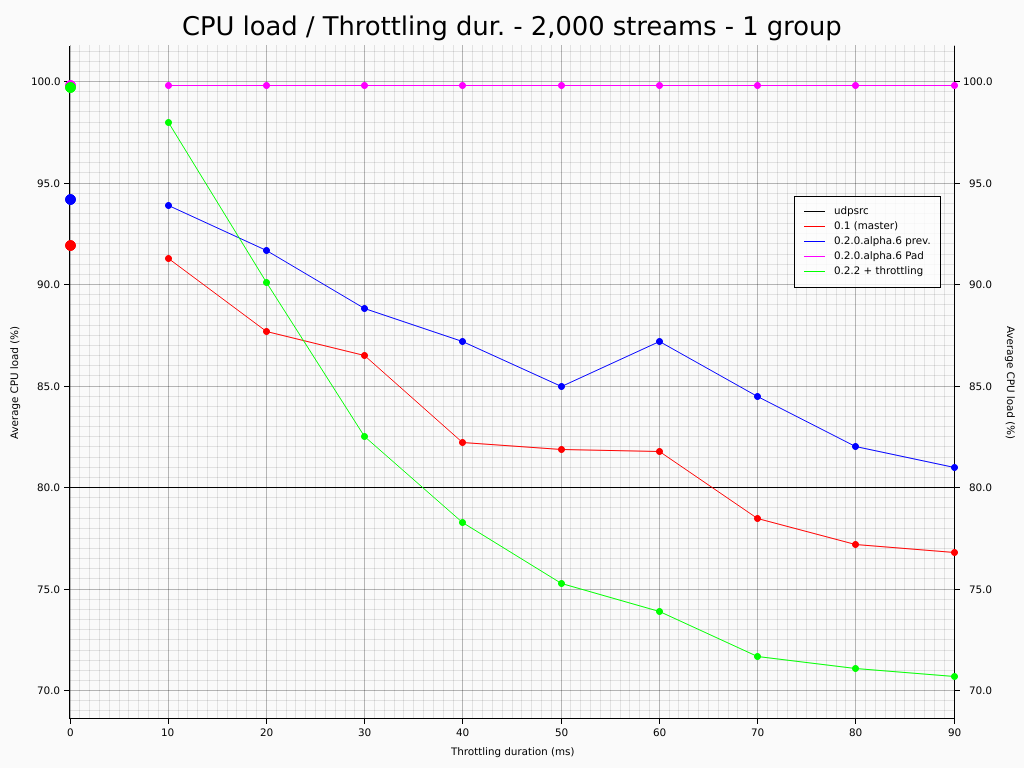
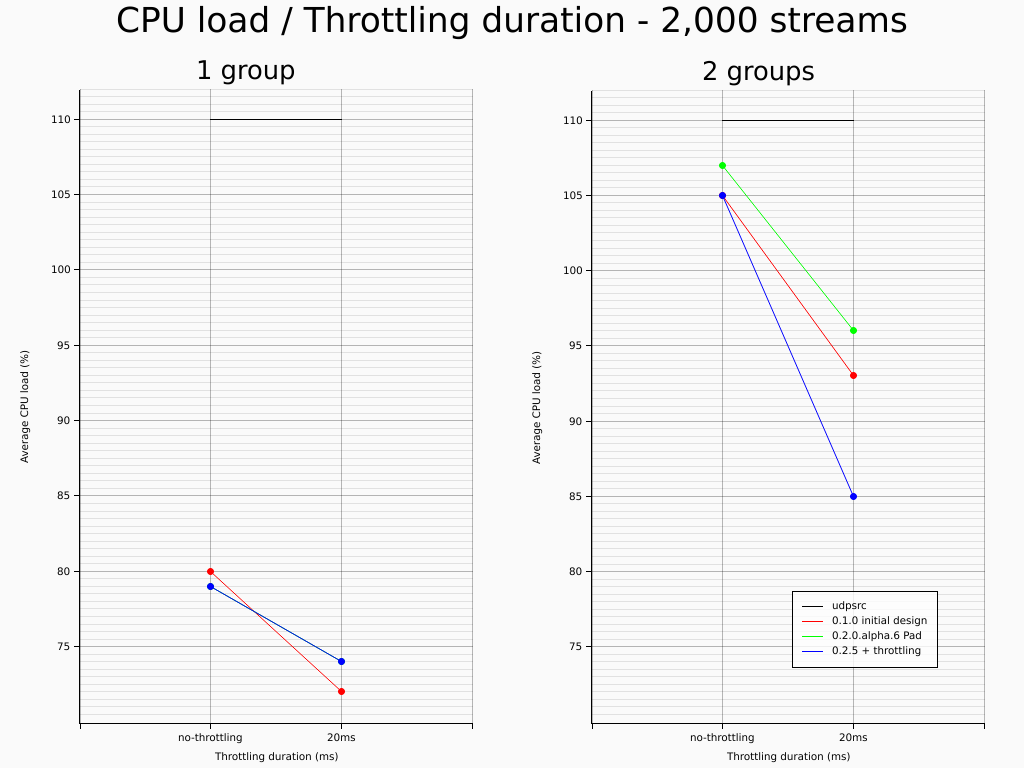
Update results for gst-plugin-threadshare

Changed region(s): [[0.0312, 0.0, 1.0, 1.0], [0.0, 0.4375, 0.0312, 0.5938]]

diff --git a/evaluating_throttling_implementations/README.md b/evaluating_throttling_implementations/README.md
@@ -30,7 +30,7 @@ need a special treatment so that they are fired close enough to their target
 instant. In order to avoid timers from being triggered too late,
 `gst-plugin-threadshare` implements its own timers management.
 
-See [this blog post](https://coaxion.net/blog/2018/04/improving-gstreamer-performance-on-a-high-number-of-network-streams-by-sharing-threads-between-elements-with-rusts-tokio-crate/)
+See [this blog post](https://coaxion.net/blog/2018/04/improving-gstreamer-performance-on-a-high-number-of-network-streams-by-sharing-threads-between-elements-with-rusts-tokio-crate)
 for a more in-depth explanation of this strategy.
 
 Two solutions are considered for `gst-plugin-threadshare` to keep up with
@@ -58,17 +58,17 @@ The goal of this evaluation is twofold:
   1. Support throttling as an approach to reduce CPU load for `tokio`'s executor.
   2. Assess the impact of recent changes in `gst-plugin-threadshare`.
 
-## Conditions
+## Testing `tokio` throttling
 
-The evaluation was conducted on the most powerful setup I could find, which is
-not that powerful unfortunately:
+The evaluation was conducted on a machine with the following characteristics:
 
   - CPU: Intel Core i5 - 7200U @ 2.5GHz, 2 physical cores, SMT disabled.
   - OS: Fedora 31 up to date as of 2019/12/17.
   - Kernel: Linux `5.3.16-300.fc31.x86_64`.
   - Scaling governor: `performance`.
   - Max. file descriptors: 30,000 (`ulimit -Sn 30000`).
-  - RAM: 12GB DDR4 @ 2,400 MHz.
+  - rustc stable 1.39.0.
+  - RAM: 12GB DDR4 @ 2,133 MHz.
 
 Since the CPU provides 2 physical cores only, all tests were performed using
 1 thread.
@@ -78,37 +78,31 @@ measurements on a 20s period. Measurements are taken at least one minute after
 the benchmark actually starts processing data. All measurements were performed
 after at least one hour after the machine was turned on with CPU loaded.
 
-In some cases, even the 20s average was not enough to flatten variations,
-in which cases a best effort average was performed. It would be interesting to
-invest time in a better evaluation and provide results which would account for
-the dispersion, but for the time being this method seemed good enough.
-
-It would be interesting to conduct the tests on a more powerful setup so as to
-get a better idea of the actual throttling duration that could be used on the
-target machines.
-
-## Testing `tokio` throttling
-
 [`tokio-udp-receiver-benchmark`] was created to demonstrate the benefit of the
 throttling strategy on `tokio` without the `GStreamer` overhead. This project
 uses a set of UDP sender & receiver with control on the streams number and
 throttling duration.
 
-The tests were conducted on [`tokio` `0.2.4 + throttling`] branch with a
+The tests were conducted on [`tokio` `0.2.5 + throttling`] branch with a
 [modified version of `tokio-udp-receiver-benchmark`]. The modified version
 prints the throughput reached by a single port. Only one port was used in order
 to avoid the need for synchronization primitives on a shared counter. The counter
 is incremented upon receipt of a new packet during 20s after which the throughput
 is printed on screen.
 
+All executables are built before-hand in `release` version.
+
 ### Results
 
 The following plot shows the CPU load induced by the non-throttling and
-throttling `BasicScheduler` of [`tokio` `0.2.4 + throttling`].
+throttling `BasicScheduler` of [`tokio` `0.2.5 + throttling`].
 
 ![`tokio` only CPU load](plots/tokio/tokio_only_cpu_load_throuput_cpu_load.png?raw=true "`tokio` only CPU load")
 
 With this tests, the benefit on CPU load of throttling appears immediately.
+
+Note that increasing the throttling duration reduces CPU load, but also adds
+latency.
 
 ![`tokio` only throughput](plots/tokio/tokio_only_throuput_throughput.png?raw=true "`tokio` only throughput")
 
@@ -127,15 +121,21 @@ either `tokio` version upgrades or framework reworks. In this evaluation, we
 will compare the following versions which should allow assessing the impact of
 the different phases:
 
-| Name                | tokio         | Futures        | Design      | Repo. |
-| ------------------- | ------------- | -------------- | ----------- | ----- |
-| 0.1 (master)        | 0.1.22        | 0.1            | Initial     | [link](https://gitlab.freedesktop.org/gstreamer/gst-plugins-rs/tree/f638b0eef7155e9bf40fb315284920b3d5eb034e) | 
-| 0.2.0.alpha.6 prev. | 0.2.0.alpha.6 | 0.3.0-alpha.19 | Initial     | [link](https://gitlab.freedesktop.org/gstreamer/gst-plugins-rs/tree/908fa74132dc7935e40a55473ab24298a066c259) |
-| 0.2.0.alpha.6 Pad   | 0.2.0.alpha.6 | 0.3.0-alpha.19 | Pad wrapper | [link](https://gitlab.freedesktop.org/gstreamer/gst-plugins-rs/tree/80a01f4754a0ec7d1b4756d7755fcdeff6d50928) |
-| 0.2.2 + throttling  | 0.2.2 + thrtl | 0.3.1          | Pad wrapper | [link](https://gitlab.freedesktop.org/fengalin/gst-plugins-rs/tree/acce02073550ec4e7f065e48e13511ee1cc6db26) |
+| Name                | tokio         | Futures        | Repo. |
+| ------------------- | ------------- | -------------- | ----- |
+| 0.1.x intial design | 0.1.22        | 0.1            | [link](https://gitlab.freedesktop.org/gstreamer/gst-plugins-rs/tree/f638b0eef7155e9bf40fb315284920b3d5eb034e) | 
+| 0.2.0.alpha.6 Pad   | 0.2.0.alpha.6 | 0.3.0-alpha.19 | [link](https://gitlab.freedesktop.org/gstreamer/gst-plugins-rs/tree/80a01f4754a0ec7d1b4756d7755fcdeff6d50928) |
+| 0.2.5 + throttling  | 0.2.5 + thrtl | 0.3.1          | [link](https://gitlab.freedesktop.org/fengalin/gst-plugins-rs/tree/0221524a1091cfea688f95805e37ad71b7f4778d) |
 
 The Pad wrapper design introduces an API similar to `GStreamer`'s [`GstPad`]
 type, except that it uses `Future`s whenever possible.
+
+The evaluation was conducted on a machine with the following characteristics:
+
+  - CPU: Intel(R) Core(TM) i7-4790K CPU @ 4.00GHz (+ all the microcode updates).
+  - Kernel: Linux 5.3.9 (Debian unstable).
+  - rustc stable 1.39.0.
+  - Memory: 4x8GB DDR3 @ 1,600MHz.
 
 ### Tools
 
@@ -166,89 +166,33 @@ udpsrc-benchmark-sender 2000
 
 All executables are built before-hand in `release` version.
 
-### Notable consequence of the upgrade to `tokio-0.2.x`
-
-Before `tokio-0.2.0`, the `UdpSocket` was built from a `Handle` to the I/O
-`Reactor` (see [this code](https://gitlab.freedesktop.org/gstreamer/gst-plugins-rs/blob/master/gst-plugin-threadshare/src/udpsrc.rs#L574)).
-Since `tokio-0.2.0`, the `Reactor` is no longer passed as an argument, however
-the `UdpSocket` must be created in the thread where the executor is running.
-In order to achieve this, a `Future` is spawned for the `UdpSocket` creation and
-we wait for the `Future` completion before continuing with the initialization.
-(see [this code](https://gitlab.freedesktop.org/fengalin/gst-plugins-rs/blob/acce02073550ec4e7f065e48e13511ee1cc6db26/gst-plugin-threadshare/src/udpsrc.rs#L639)).
-
-In the benchmark receiver, all the elements for all the streams are added to the
-same `GStreamer` `pipeline`. This is convenient because all the elements can
-be started from one instruction and only one bus is needed to monitor errors.
-Each `ts-udpsrc` element creates its own `UdpSocket` by spawning a `Future` on
-the throttling executor. As a consequence, starting the `0.2.2 + throttling`
-benchmark with 4,000 streams and a throttling duration of 50ms takes about 200s
-for `ts-udpsrc`.
-
 ### Results
 
-FIXME figure out why the sweet spot is not around 20ms.
-
 The following plots show the CPU load induced by the `gst-plugin-threadshare`
-versions at different throttling duration depending on the streams number.
-
-Note the dots at throttling duration 0. They represent the CPU load when no
-throttling is applied. For the `0.2.2 + throttling` version, the regular `tokio`
-`BasicScheduler` implementation is used, for the other versions the thread is
-not forced to sleep.
-
-The black line indicates the CPU load for the `udpsrc` element, so this line is
-the threshold under which throttling actually reduces CPU load compare to the
-element threaded implementation.
-
-![`gst-plugin-threadshare` 1,500 streams](plots/gst-plugin-threadshare/cpu_load_1500.png?raw=true "`gst-plugin-threadshare` 1,500 streams")
-
-At 1,500 streams, `0.1 (master)` reaches the threshold with a shorter throttling
-duration than `0.2.2 + throttling`. However, as throttling duration increases,
-CPU load tends to fluctuate (more than a 10% in relative value), even for a
-given throttling duration (not represented here). `0.2.2 + throttling` shows a
-more predictable behavior both as throttling duration increases and for a given
-operating point.
-
-The upgrade to `tokio-0.2.0.alpha.6` induces a slight increase in CPU load,
-but quite insignificant when compared to the 10% increase (in relative value)
-due to the `Pad` wrapper model as `0.2.0.alpha.6 Pad` seems to show.
-The throttling implemented on `tokio-0.2.2` compensates the overhead at the
-interesting operating points though.
+versions with and without throttling. The black line indicates the CPU load for
+the non-threadshare element.
 
 ![`gst-plugin-threadshare` 2,000 streams](plots/gst-plugin-threadshare/cpu_load_2000.png?raw=true "`gst-plugin-threadshare` 2,000 streams")
 
-At 2,000 streams, `0.2.2 + throttling` reaches the threshold faster than any
-other implementations.
-
-The upgrade to `tokio-0.2.0.alpha.6` shows a more significant increase in CPU
-load compared to the 1,500 streams test.
-
-`0.2.0.alpha.6 Pad` overhead seems to prevent this version from taking advantage
-of the throttling strategy.
-
-![`gst-plugin-threadshare` 2,500 streams](plots/gst-plugin-threadshare/cpu_load_2500.png?raw=true "`gst-plugin-threadshare` 2,500 streams")
-
-At 2,500 streams, only `0.2.2 + throttling` is able to benefit from the
-throttling strategy on this configuration.
+At 2,000 streams, all `gst-plugin-threadshare` versions behave approximately the
+same, regardless of the `tokio` version used or the framework design.
 
 ## Next steps
 
 The following next steps are identified:
 
-  - Propose [`tokio` `0.2.4 + throttling`] for inclusion in upstream `tokio`.
+  - Propose the throttling modifications for inclusion in upstream `tokio`.
   - Perform similar tests on `gst-plugin-threadshare` with additional
     `{ts-}Queue`s in the pipeline so that the evaluation doesn't rely mostly
     on I/O.
   - Check the benefit of using `lto` (link time optimization) when building
     tools.
-  - Analyze and reduce the overhead induced by the `Pad` wrapper model in
-    `gst-plugin-threadshare`.
 
 [`gst-plugin-threadshare`]: https://gitlab.freedesktop.org/gstreamer/gst-plugins-rs/tree/master/gst-plugin-threadshare
 [`gstreamer-rs`]: https://gitlab.freedesktop.org/gstreamer/gstreamer-rs
 [`GStreamer`]: https://gstreamer.freedesktop.org/
 [`tokio`]: https://github.com/tokio-rs/tokio
 [`GstPad`]: https://gstreamer.freedesktop.org/documentation/gstreamer/gstpad.html?gi-language=c
-[`tokio` `0.2.4 + throttling`]: https://github.com/fengalin/tokio/tree/12574ec03dfac4772b5b2142067be7b5c5009ea4
+[`tokio` `0.2.5 + throttling`]: https://github.com/fengalin/tokio/tree/fengalin/0.2.5-throttling
 [`tokio-udp-receiver-benchmark`]: https://github.com/sdroege/tokio-udp-receiver-benchmark
-[modified version of `tokio-udp-receiver-benchmark`]: https://github.com/fengalin/tokio-udp-receiver-benchmark/tree/5e3a6ba2d81dda6a0f470eee1c46d380f6bf1a50
+[modified version of `tokio-udp-receiver-benchmark`]: https://github.com/fengalin/tokio-udp-receiver-benchmark/tree/ccee51f336baf77367a9a4b4e99458289820b45a
